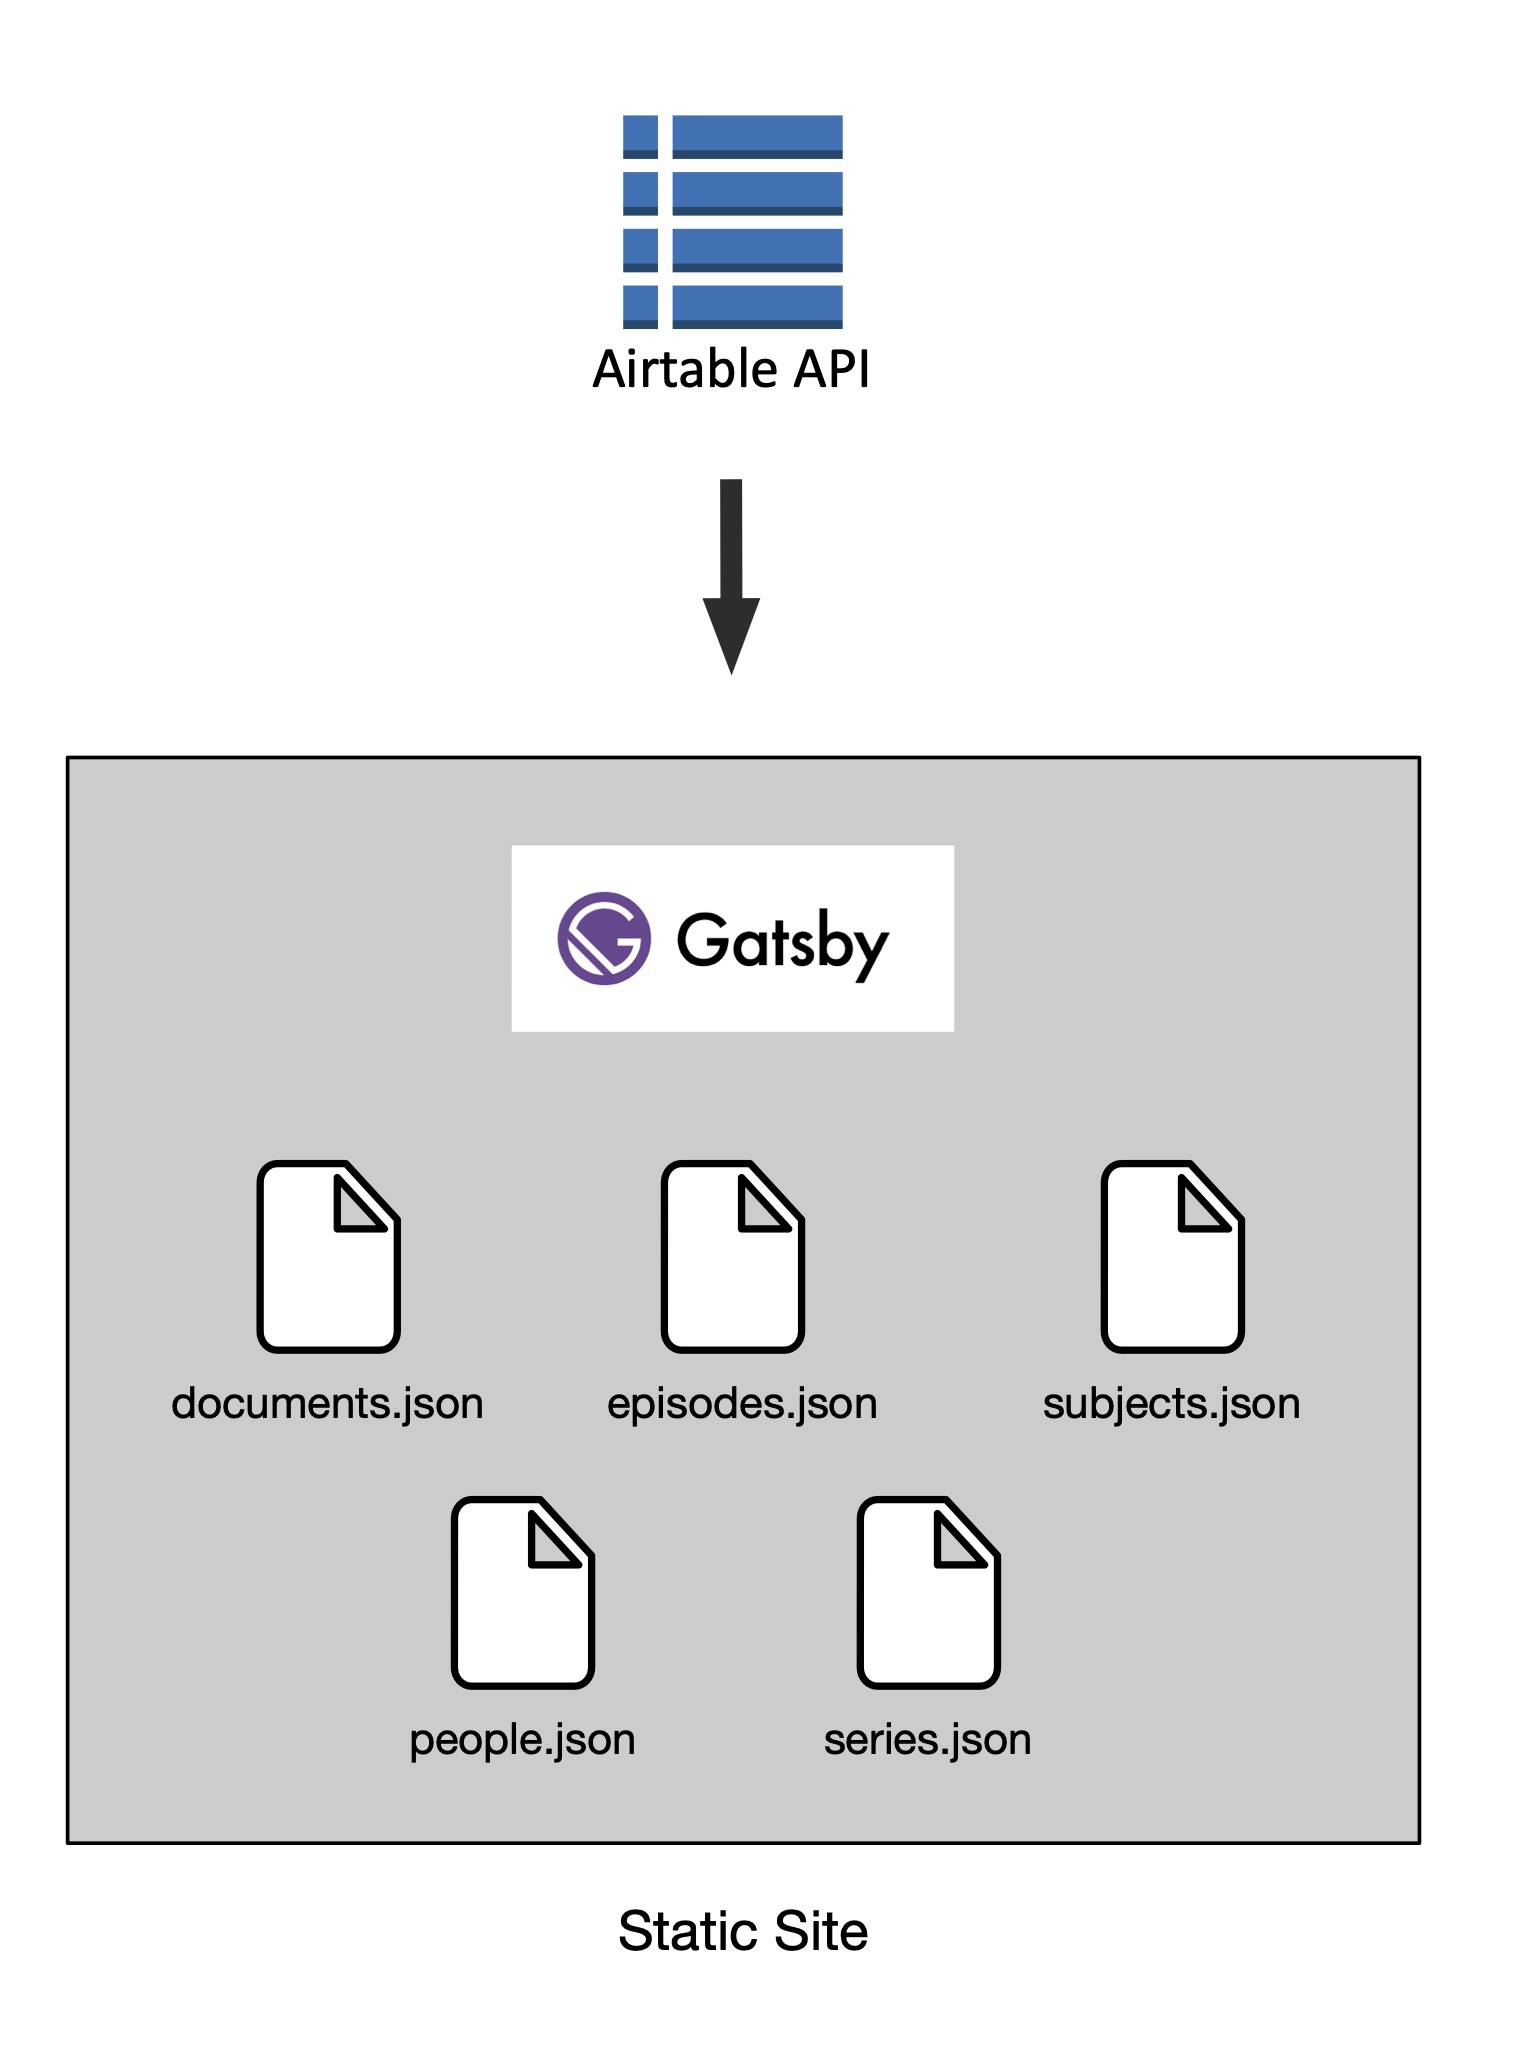
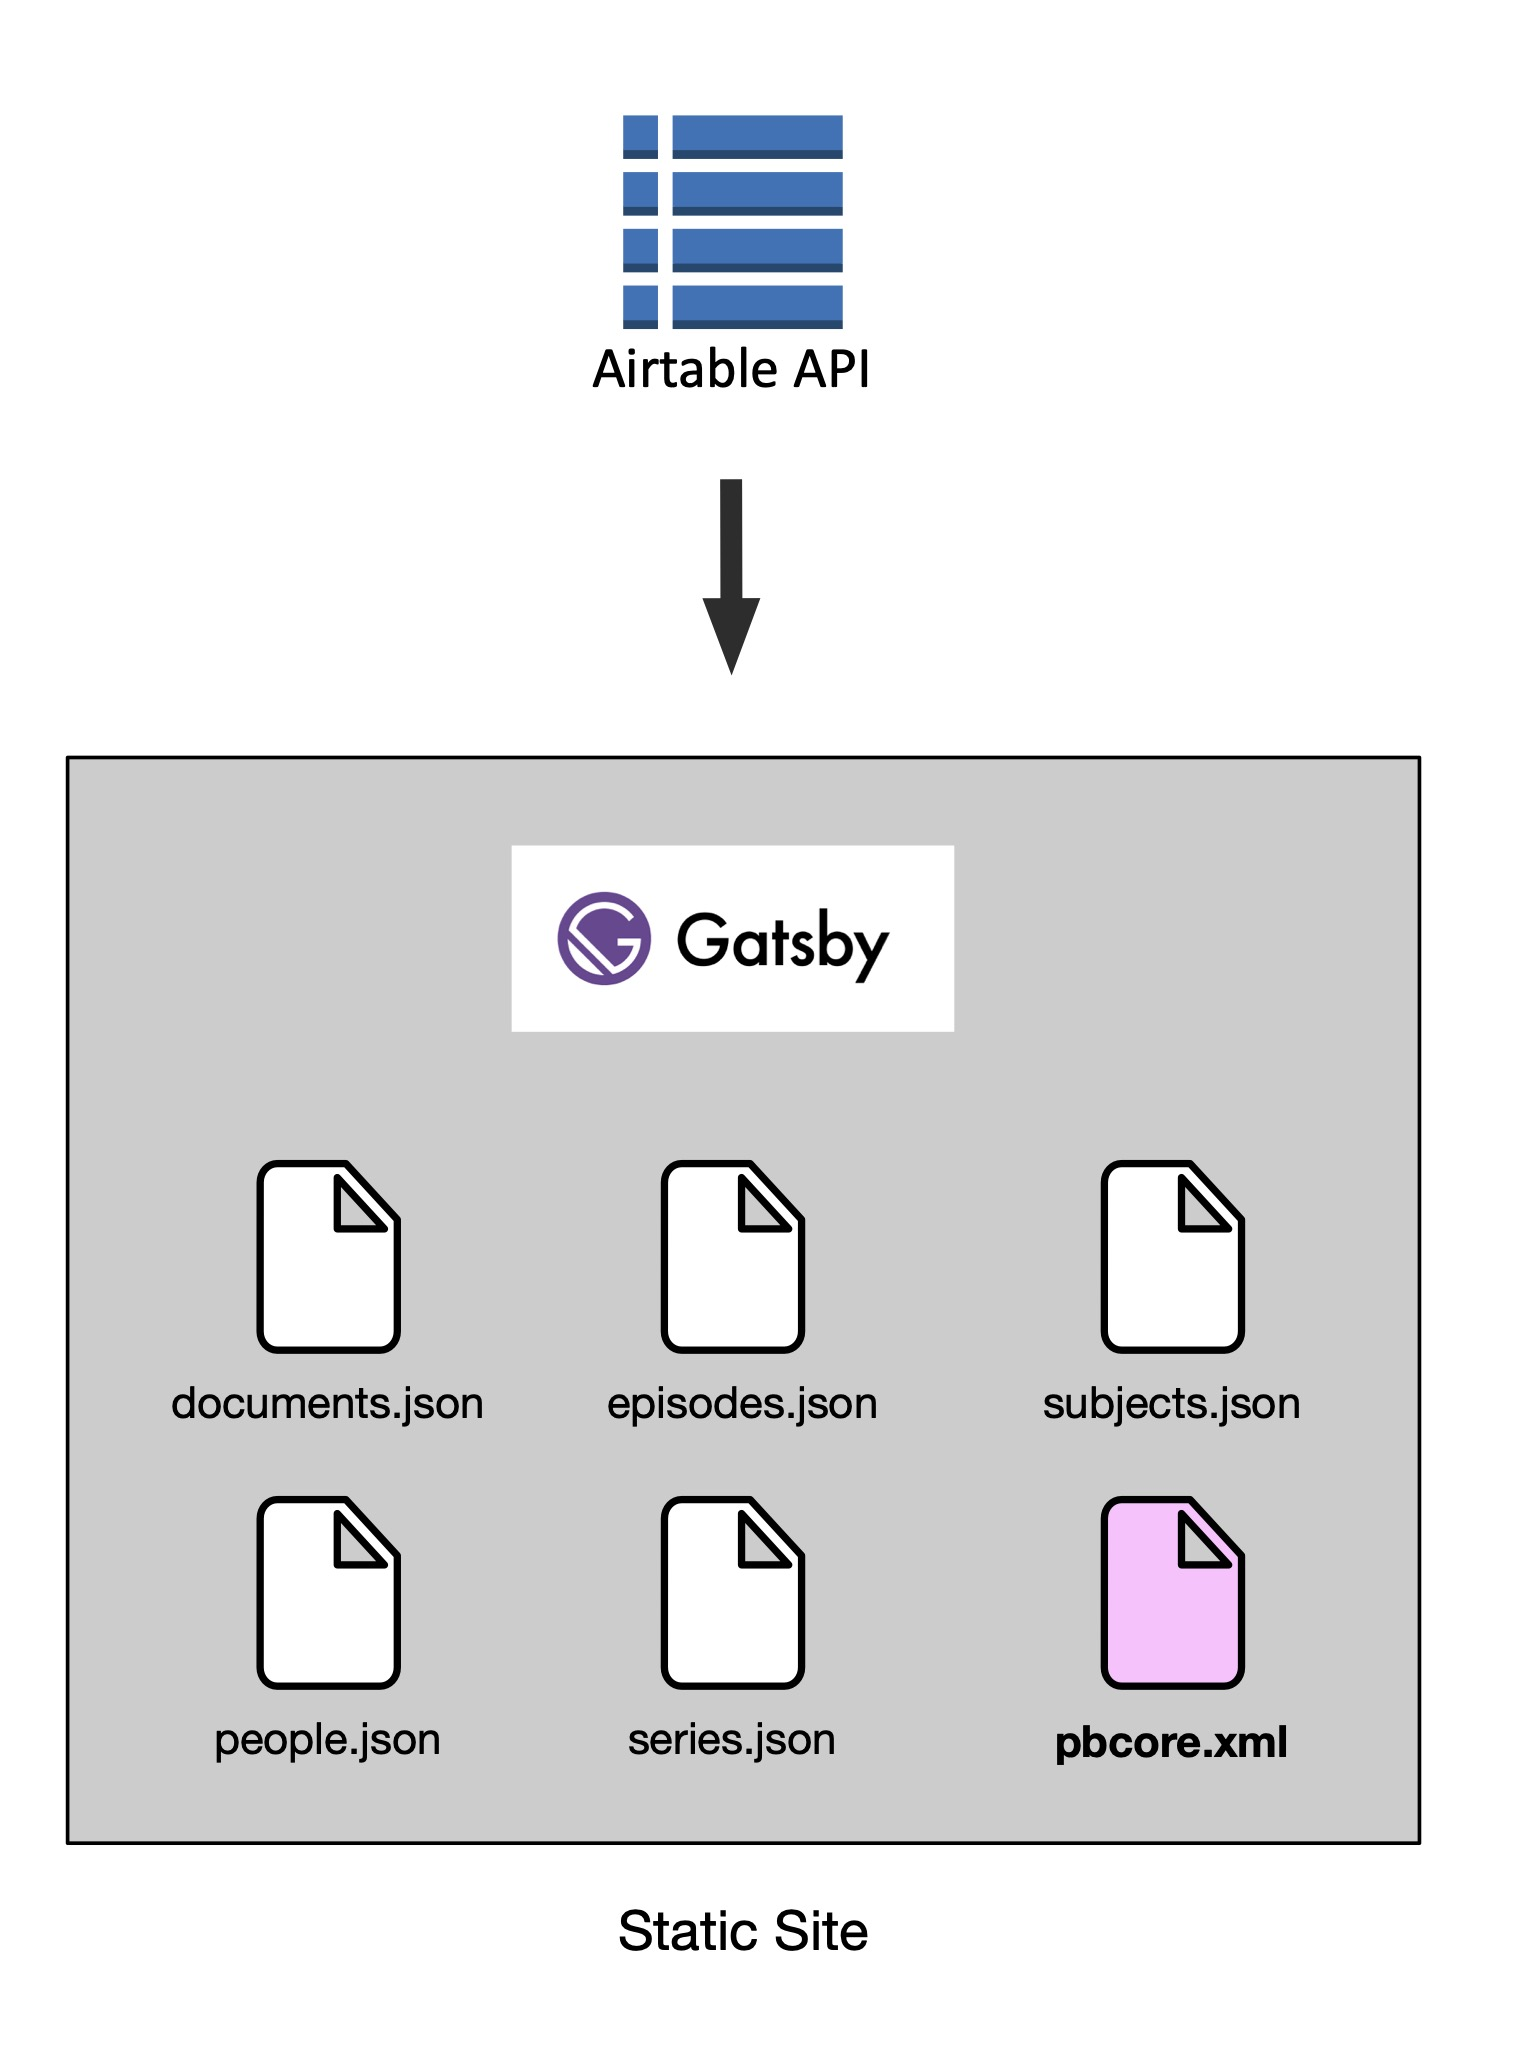
more slides coming

Changed region(s): [[0.1234, 0.7188, 0.8635, 0.875]]

diff --git a/index.html b/index.html
@@ -377,9 +377,20 @@ code span.wa { color: #60a0b0; font-weight: bold; font-style: italic; } /* Warni
 <p><img src="images/docs.png"></p>
 </section>
 
+<section>
+  slide on how static websites differ from dynamic ones
+</section>
 
 <section>
+  many options / why gatsby was chosen
+</section>
+
+<section data-transition="none-out">
   <img width="45%" src="images/static-site.png">
+</section>
+
+<section data-transition="none-in">
+  <img width="45%" src="images/static-site-pbcore.png">
 </section>
 
 <section>
